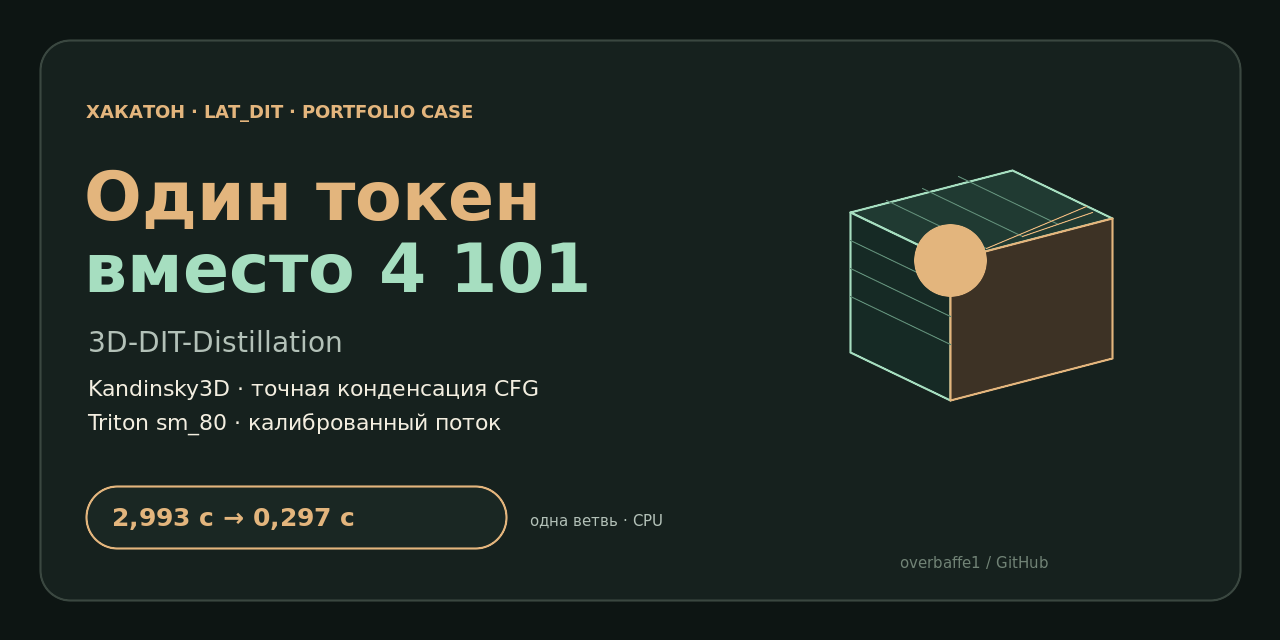
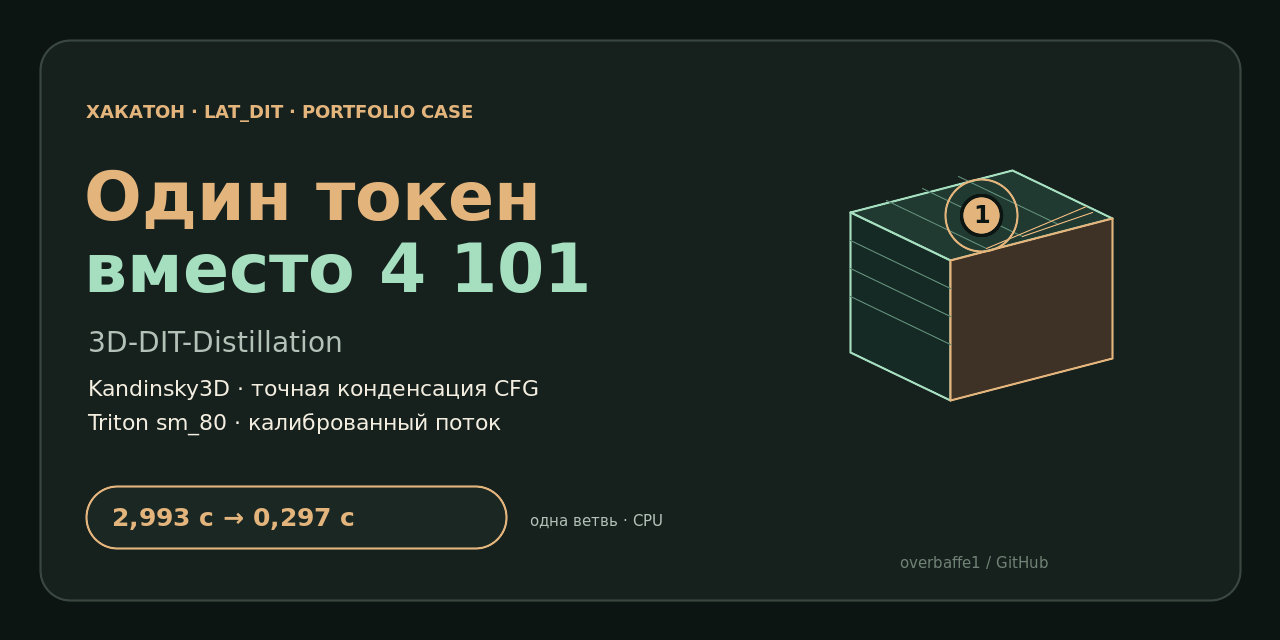
fix(docs): straighten portfolio SVG layout and add regression checks
Move cover chips fully inside the panel, center the 1-token marker on the cube's top face, separate timeline labels from their guide lines, and add XML-based layout assertions. [skip ci]

Changed region(s): [[0.6875, 0.2812, 0.8125, 0.4688]]

diff --git a/docs/index.html b/docs/index.html
@@ -35,7 +35,7 @@
     <div class="frame">
       <picture>
         <source media="(prefers-color-scheme: dark)" srcset="assets/portfolio/cover-dark.svg">
-        <img src="assets/portfolio/cover-light.svg" width="1200" height="430" alt="Обложка: 3D-DIT-Distillation, один токен вместо 4 101, изометрический воксельный куб.">
+        <img src="assets/portfolio/cover-light.svg" width="1200" height="470" alt="Обложка: 3D-DIT-Distillation, один токен вместо 4 101, изометрический воксельный куб.">
       </picture>
     </div>
     <div class="caption">

diff --git a/tools/build_portfolio_assets.py b/tools/build_portfolio_assets.py
@@ -148,8 +148,8 @@ def chip(x: float, y: float, w: float, h: float, label: str, value: str, p: dict
   <g>
     <rect x="{x:.1f}" y="{y:.1f}" width="{w:.1f}" height="{h:.1f}" rx="14" fill="{p['panel']}" stroke="{p['line']}"/>
     <rect x="{x:.1f}" y="{y:.1f}" width="5" height="{h:.1f}" rx="2.5" fill="{accent}"/>
-    {txt(x + 18, y + 25, label, size=12, fill=p['dim'], weight=600, spacing=1.2)}
-    {txt(x + 18, y + 54, value, size=22, fill=p['ink'], weight=700)}
+    {txt(x + 18, y + 24, label, size=12, fill=p['dim'], weight=600, spacing=1.2)}
+    {txt(x + 18, y + 51, value, size=21, fill=p['ink'], weight=700)}
   </g>""".strip()
 
 
@@ -173,38 +173,41 @@ def cube(p: dict[str, str], x: float, y: float, scale: float = 1.0) -> str:
         lines.append(f'<line x1="{x:.1f}" y1="{y + (42 + 28 * i) * scale:.1f}" '
                      f'x2="{x + 100 * scale:.1f}" y2="{y + (90 + 28 * i) * scale:.1f}" '
                      f'stroke="{p["mint"]}" stroke-opacity="0.18"/>')
+    cx = x + 110 * scale
+    cy = y + 45 * scale
     return f"""
   <g>
     <polygon points="{top}" fill="url(#cubeTop)" stroke="{p['mint']}" stroke-opacity="0.60"/>
     <polygon points="{left}" fill="url(#cubeLeft)" stroke="{p['mint']}" stroke-opacity="0.42"/>
     <polygon points="{right}" fill="url(#cubeRight)" stroke="{p['brass']}" stroke-opacity="0.48"/>
     {''.join(lines)}
-    <circle cx="{x + 100 * scale:.1f}" cy="{y + 90 * scale:.1f}" r="{18 * scale:.1f}" fill="{p['brass']}" opacity="0.95"/>
-    <circle cx="{x + 100 * scale:.1f}" cy="{y + 90 * scale:.1f}" r="{31 * scale:.1f}" fill="none" stroke="{p['brass']}" stroke-opacity="0.45" stroke-width="2"/>
-    <path d="M {x + 100 * scale:.1f} {y + 90 * scale:.1f} L {x + 100 * scale:.1f} {y + 230 * scale:.1f}" stroke="{p['brass']}" stroke-dasharray="5 7" stroke-opacity="0.55"/>
+    <path d="M {cx:.1f} {cy:.1f} L {x + 100 * scale:.1f} {y + 230 * scale:.1f}" stroke="{p['brass']}" stroke-dasharray="5 7" stroke-opacity="0.45"/>
+    <circle cx="{cx:.1f}" cy="{cy:.1f}" r="{31 * scale:.1f}" fill="none" stroke="{p['brass']}" stroke-opacity="0.45" stroke-width="2"/>
+    <circle cx="{cx:.1f}" cy="{cy:.1f}" r="{18 * scale:.1f}" fill="{p['brass']}" stroke="{p['bg']}" stroke-width="3"/>
+    {txt(cx, cy + 7 * scale, '1', size=int(20 * scale), fill=p['bg'], weight=800, anchor='middle')}
   </g>""".strip()
 
 
 def cover(p: dict[str, str], variant: str) -> str:
-    w, h = 1200, 430
+    w, h = 1200, 470
     body = f"""
   <rect x="34" y="30" width="{w - 68}" height="{h - 60}" rx="26" fill="{p['panel']}" stroke="{p['line']}" opacity="0.92"/>
-  {cube(p, 805, 95, 1.02)}
+  {cube(p, 805, 88, 1.02)}
   {txt(72, 86, 'PORTFOLIO CASE  /  08', size=13, fill=p['brass'], weight=700, spacing=2.4)}
   {txt(72, 150, '3D-DIT', size=64, fill=p['ink'], weight=800, spacing=-1.5)}
   {txt(72, 210, 'DISTILLATION', size=43, fill=p['mint'], weight=700, spacing=1.0)}
-  {txt(74, 258, 'Хакатонский трек lat_dit · Kandinsky3D', size=21, fill=p['dim'])}
-  {txt(74, 292, 'Один токен вместо 4 101 в безусловной ветви CFG', size=19, fill=p['ink'], weight=600)}
-  {txt(74, 322, 'Точная алгебра, Triton sm_80 и калиброванный поток', size=16, fill=p['muted'])}
+  {txt(74, 256, 'Хакатонский трек lat_dit · Kandinsky3D', size=21, fill=p['dim'])}
+  {txt(74, 288, 'Один токен вместо 4 101 в безусловной ветви CFG', size=19, fill=p['ink'], weight=600)}
+  {txt(74, 314, 'Точная алгебра, Triton sm_80 и калиброванный поток', size=16, fill=p['muted'])}
   <g>
-    <rect x="804" y="334" width="306" height="46" rx="23" fill="{p['panel2']}" stroke="{p['brass']}" stroke-opacity="0.65"/>
-    {txt(830, 363, '4 101  →  1', size=23, fill=p['brass'], weight=800, spacing=1.0)}
-    {txt(982, 363, 'без аппроксимации', size=13, fill=p['dim'])}
+    <rect x="804" y="330" width="306" height="62" rx="31" fill="{p['panel2']}" stroke="{p['brass']}" stroke-opacity="0.65"/>
+    {txt(957, 360, '4 101  →  1', size=23, fill=p['brass'], weight=800, spacing=1.0, anchor='middle')}
+    {txt(957, 383, 'без аппроксимации', size=13, fill=p['dim'], anchor='middle')}
   </g>
-  {chip(70, 344, 164, 58, 'CFG BRANCH', f'{comma(REF_NEG)} → {comma(FAST_NEG)} с', p, p['mint'])}
-  {chip(246, 344, 150, 58, 'KERNELS', '6 · sm_80', p, p['blue'])}
-  {chip(408, 344, 150, 58, 'TUNED SOLVER', f'50 → {STEPS} NFE', p, p['brass'])}
-  {chip(570, 344, 176, 58, 'STACK', 'PyTorch · Triton', p, p['rose'])}
+  {chip(70, 330, 164, 62, 'CFG BRANCH', f'{comma(REF_NEG)} → {comma(FAST_NEG)} с', p, p['mint'])}
+  {chip(246, 330, 150, 62, 'KERNELS', '6 · sm_80', p, p['blue'])}
+  {chip(408, 330, 150, 62, 'TUNED SOLVER', f'50 → {STEPS} NFE', p, p['brass'])}
+  {chip(570, 330, 176, 62, 'STACK', 'PyTorch · Triton', p, p['rose'])}
   {txt(w - 72, 86, 'CASE STUDY', size=12, fill=p['muted'], weight=700, spacing=2.0, anchor='end')}
 """
     return doc(w, h, p, "3D-DIT-Distillation — обложка портфолио-кейса", "Изометрический воксельный куб и ключевые показатели хакатонского решения.", body)
@@ -299,30 +302,30 @@ def timeline(p: dict[str, str], variant: str) -> str:
     ticks = []
     for i in range(51):
         x = x0 + (x1 - x0) * i / 50
-        ticks.append(f'<line x1="{x:.1f}" y1="142" x2="{x:.1f}" y2="154" stroke="{p["mint"]}" stroke-opacity="0.55"/>')
+        ticks.append(f'<line x1="{x:.1f}" y1="160" x2="{x:.1f}" y2="172" stroke="{p["mint"]}" stroke-opacity="0.55"/>')
     student_ticks = []
     for i in range(STEPS + 1):
         x = x0 + (x1 - x0) * i / STEPS
-        student_ticks.append(f'<line x1="{x:.1f}" y1="276" x2="{x:.1f}" y2="300" stroke="{p["brass"]}" stroke-width="4"/>')
-        student_ticks.append(f'<circle cx="{x:.1f}" cy="276" r="7" fill="{p["brass"]}"/>')
+        student_ticks.append(f'<line x1="{x:.1f}" y1="286" x2="{x:.1f}" y2="310" stroke="{p["brass"]}" stroke-width="4"/>')
+        student_ticks.append(f'<circle cx="{x:.1f}" cy="292" r="7" fill="{p["brass"]}"/>')
     body = f"""
   <rect x="28" y="26" width="1144" height="368" rx="24" fill="{p['panel']}" stroke="{p['line']}"/>
   {txt(54, 70, 'ТРАЕКТОРИЯ ПОТОКА', size=13, fill=p['brass'], weight=700, spacing=2.0)}
   {txt(1146, 70, 't = 1 → 0 · CFG активен до t = 0.5', size=13, fill=p['muted'], anchor='end')}
-  {txt(54, 120, 'Бейзлайн', size=17, fill=p['ink'], weight=700)}
-  {txt(54, 146, '50 шагов Euler + CFG', size=14, fill=p['dim'])}
-  <line x1="{x0}" y1="148" x2="{x1}" y2="148" stroke="{p['mint']}" stroke-width="3" opacity="0.65"/>
+  {txt(54, 112, 'Бейзлайн', size=17, fill=p['ink'], weight=700)}
+  {txt(54, 138, '50 шагов Euler + CFG', size=14, fill=p['dim'])}
+  <line x1="{x0}" y1="166" x2="{x1}" y2="166" stroke="{p['mint']}" stroke-width="3" opacity="0.65"/>
   {''.join(ticks)}
-  {txt(54, 252, f'Настроенный солвер', size=17, fill=p['ink'], weight=700)}
-  {txt(54, 278, f'{STEPS} шага · {GUIDED} guided + {UNGUIDED} unguided', size=14, fill=p['dim'])}
-  <line x1="{x0}" y1="276" x2="{x1}" y2="276" stroke="{p['line']}" stroke-width="3"/>
-  <line x1="{x0}" y1="276" x2="{boundary:.1f}" y2="276" stroke="{p['blue']}" stroke-width="5"/>
-  <line x1="{boundary:.1f}" y1="276" x2="{x1}" y2="276" stroke="{p['rose']}" stroke-width="5"/>
+  {txt(54, 238, f'Настроенный солвер', size=17, fill=p['ink'], weight=700)}
+  {txt(54, 264, f'{STEPS} шага · {GUIDED} guided + {UNGUIDED} unguided', size=14, fill=p['dim'])}
+  <line x1="{x0}" y1="292" x2="{x1}" y2="292" stroke="{p['line']}" stroke-width="3"/>
+  <line x1="{x0}" y1="292" x2="{boundary:.1f}" y2="292" stroke="{p['blue']}" stroke-width="5"/>
+  <line x1="{boundary:.1f}" y1="292" x2="{x1}" y2="292" stroke="{p['rose']}" stroke-width="5"/>
   {''.join(student_ticks)}
-  <line x1="{boundary:.1f}" y1="102" x2="{boundary:.1f}" y2="340" stroke="{p['brass']}" stroke-dasharray="7 8" stroke-opacity="0.72"/>
+  <line x1="{boundary:.1f}" y1="102" x2="{boundary:.1f}" y2="352" stroke="{p['brass']}" stroke-dasharray="7 8" stroke-opacity="0.72"/>
   {txt(boundary + 10, 116, 'ГРАНИЦА CFG · t = 0.5', size=12, fill=p['brass'], weight=700, spacing=1.0)}
-  {txt(x0, 334, 'guided', size=13, fill=p['blue'], weight=700)}
-  {txt(x1, 334, 'unguided', size=13, fill=p['rose'], weight=700, anchor='end')}
+  {txt(x0, 344, 'guided', size=13, fill=p['blue'], weight=700)}
+  {txt(x1, 344, 'unguided', size=13, fill=p['rose'], weight=700, anchor='end')}
   {txt(x0, 376, f'В CPU-абляции сравнивались 12–20 шагов; {STEPS} — значение текущего lib/solver_config.json, а не результат того прогона.', size=12, fill=p['muted'])}
 """
     return doc(w, h, p, "Расписание солвера", "Сравнение 50-шагового бейзлайна и настроенного расписания с границей CFG.", body)
@@ -445,10 +448,19 @@ stroke '{p['brass']}'
 stroke-width 1
 line 986,248 1086,206
 line 1022,236 1092,212
+stroke '{p['brass']}'
+stroke-width 2
+fill none
+circle 981,215 1017,215
 fill '{p['brass']}'
+stroke '{p['bg']}'
+stroke-width 3
+circle 981,215 1001,215
+fill '{p['bg']}'
 stroke none
-circle 950,260 974,260
-circle 950,260 986,260
+font DejaVu-Sans-Bold
+font-size 24
+text 974,223 '1'
 fill '{p['brass']}'
 font DejaVu-Sans-Bold
 font-size 18

diff --git a/tools/check_docs.py b/tools/check_docs.py
@@ -105,6 +105,46 @@ def check_path(target: str, source: Path, errors: list[str], seen: set[Path]) ->
         errors.append(f"{source.relative_to(ROOT)}: missing link target: {target} → {path.relative_to(ROOT)}")
 
 
+SVG_NS = "{http://www.w3.org/2000/svg}"
+
+
+def check_svg_layout(errors: list[str]) -> None:
+    """Catch the two visual regressions that motivated the second portfolio PR."""
+    for name in ("cover-light.svg", "cover-dark.svg"):
+        path = ASSETS / name
+        root = ElementTree.parse(path).getroot()
+        rects = root.findall(f".//{SVG_NS}rect")
+        panels = [r for r in rects if r.get("x") == "34" and r.get("y") == "30"]
+        if not panels:
+            errors.append(f"{name}: cover panel rect not found")
+            continue
+        panel = panels[0]
+        panel_bottom = float(panel.get("y", "0")) + float(panel.get("height", "0"))
+        for rect in rects:
+            if rect.get("rx") != "14":
+                continue
+            chip_bottom = float(rect.get("y", "0")) + float(rect.get("height", "0"))
+            if chip_bottom > panel_bottom - 8:
+                errors.append(f"{name}: chip card crosses the panel border ({chip_bottom:.0f} vs {panel_bottom:.0f})")
+
+    for name in ("timeline-light.svg", "timeline-dark.svg"):
+        path = ASSETS / name
+        root = ElementTree.parse(path).getroot()
+        horizontal = [
+            line for line in root.findall(f".//{SVG_NS}line")
+            if line.get("y1") == line.get("y2") and float(line.get("y1", "0")) > 250
+        ]
+        left_labels = [
+            text for text in root.findall(f".//{SVG_NS}text")
+            if float(text.get("x", "0")) < 300 and 230 < float(text.get("y", "0")) < 310
+        ]
+        for line in horizontal:
+            y = float(line.get("y1", "0"))
+            for text in left_labels:
+                if abs(y - float(text.get("y", "0"))) < 18:
+                    errors.append(f"{name}: timeline line at y={y:.0f} overlaps label at y={float(text.get('y', '0')):.0f}")
+
+
 def main() -> int:
     errors: list[str] = []
     seen: set[Path] = set()
@@ -136,6 +176,11 @@ def main() -> int:
         except ElementTree.ParseError as exc:
             errors.append(f"{svg.relative_to(ROOT)}: malformed SVG XML: {exc}")
 
+    try:
+        check_svg_layout(errors)
+    except ElementTree.ParseError as exc:
+        errors.append(f"SVG layout check could not parse assets: {exc}")
+
     manifest_path = ASSETS / "manifest.json"
     if not manifest_path.is_file():
         errors.append("docs/assets/portfolio/manifest.json is missing")
@@ -162,7 +207,7 @@ def main() -> int:
             print("  -", err)
         return 1
 
-    print(f"docs-check OK: {len(seen)} local targets, {len(SVG_FILES)} SVGs, {len(HTML_FILES)} HTML pages")
+    print(f"docs-check OK: {len(seen)} local targets, {len(SVG_FILES)} SVGs, {len(HTML_FILES)} HTML pages, layout checks passed")
     return 0
 
 

diff --git a/docs/REPRODUCE.md b/docs/REPRODUCE.md
@@ -9,7 +9,7 @@
 ## 0. Что можно проверить сразу
 
 ```bash
-make docs-check     # ссылки, XML/SVG, локальные ассеты HTML, отсутствие localhost в разметке
+make docs-check     # ссылки, XML/SVG, локальные ассеты HTML, раскладка обложки/timeline, без localhost
 make docs-assets    # пересобрать SVG + social-preview.png из JSON-протоколов
 make docs-serve     # статическая витрина на 0.0.0.0:4173
 ```
